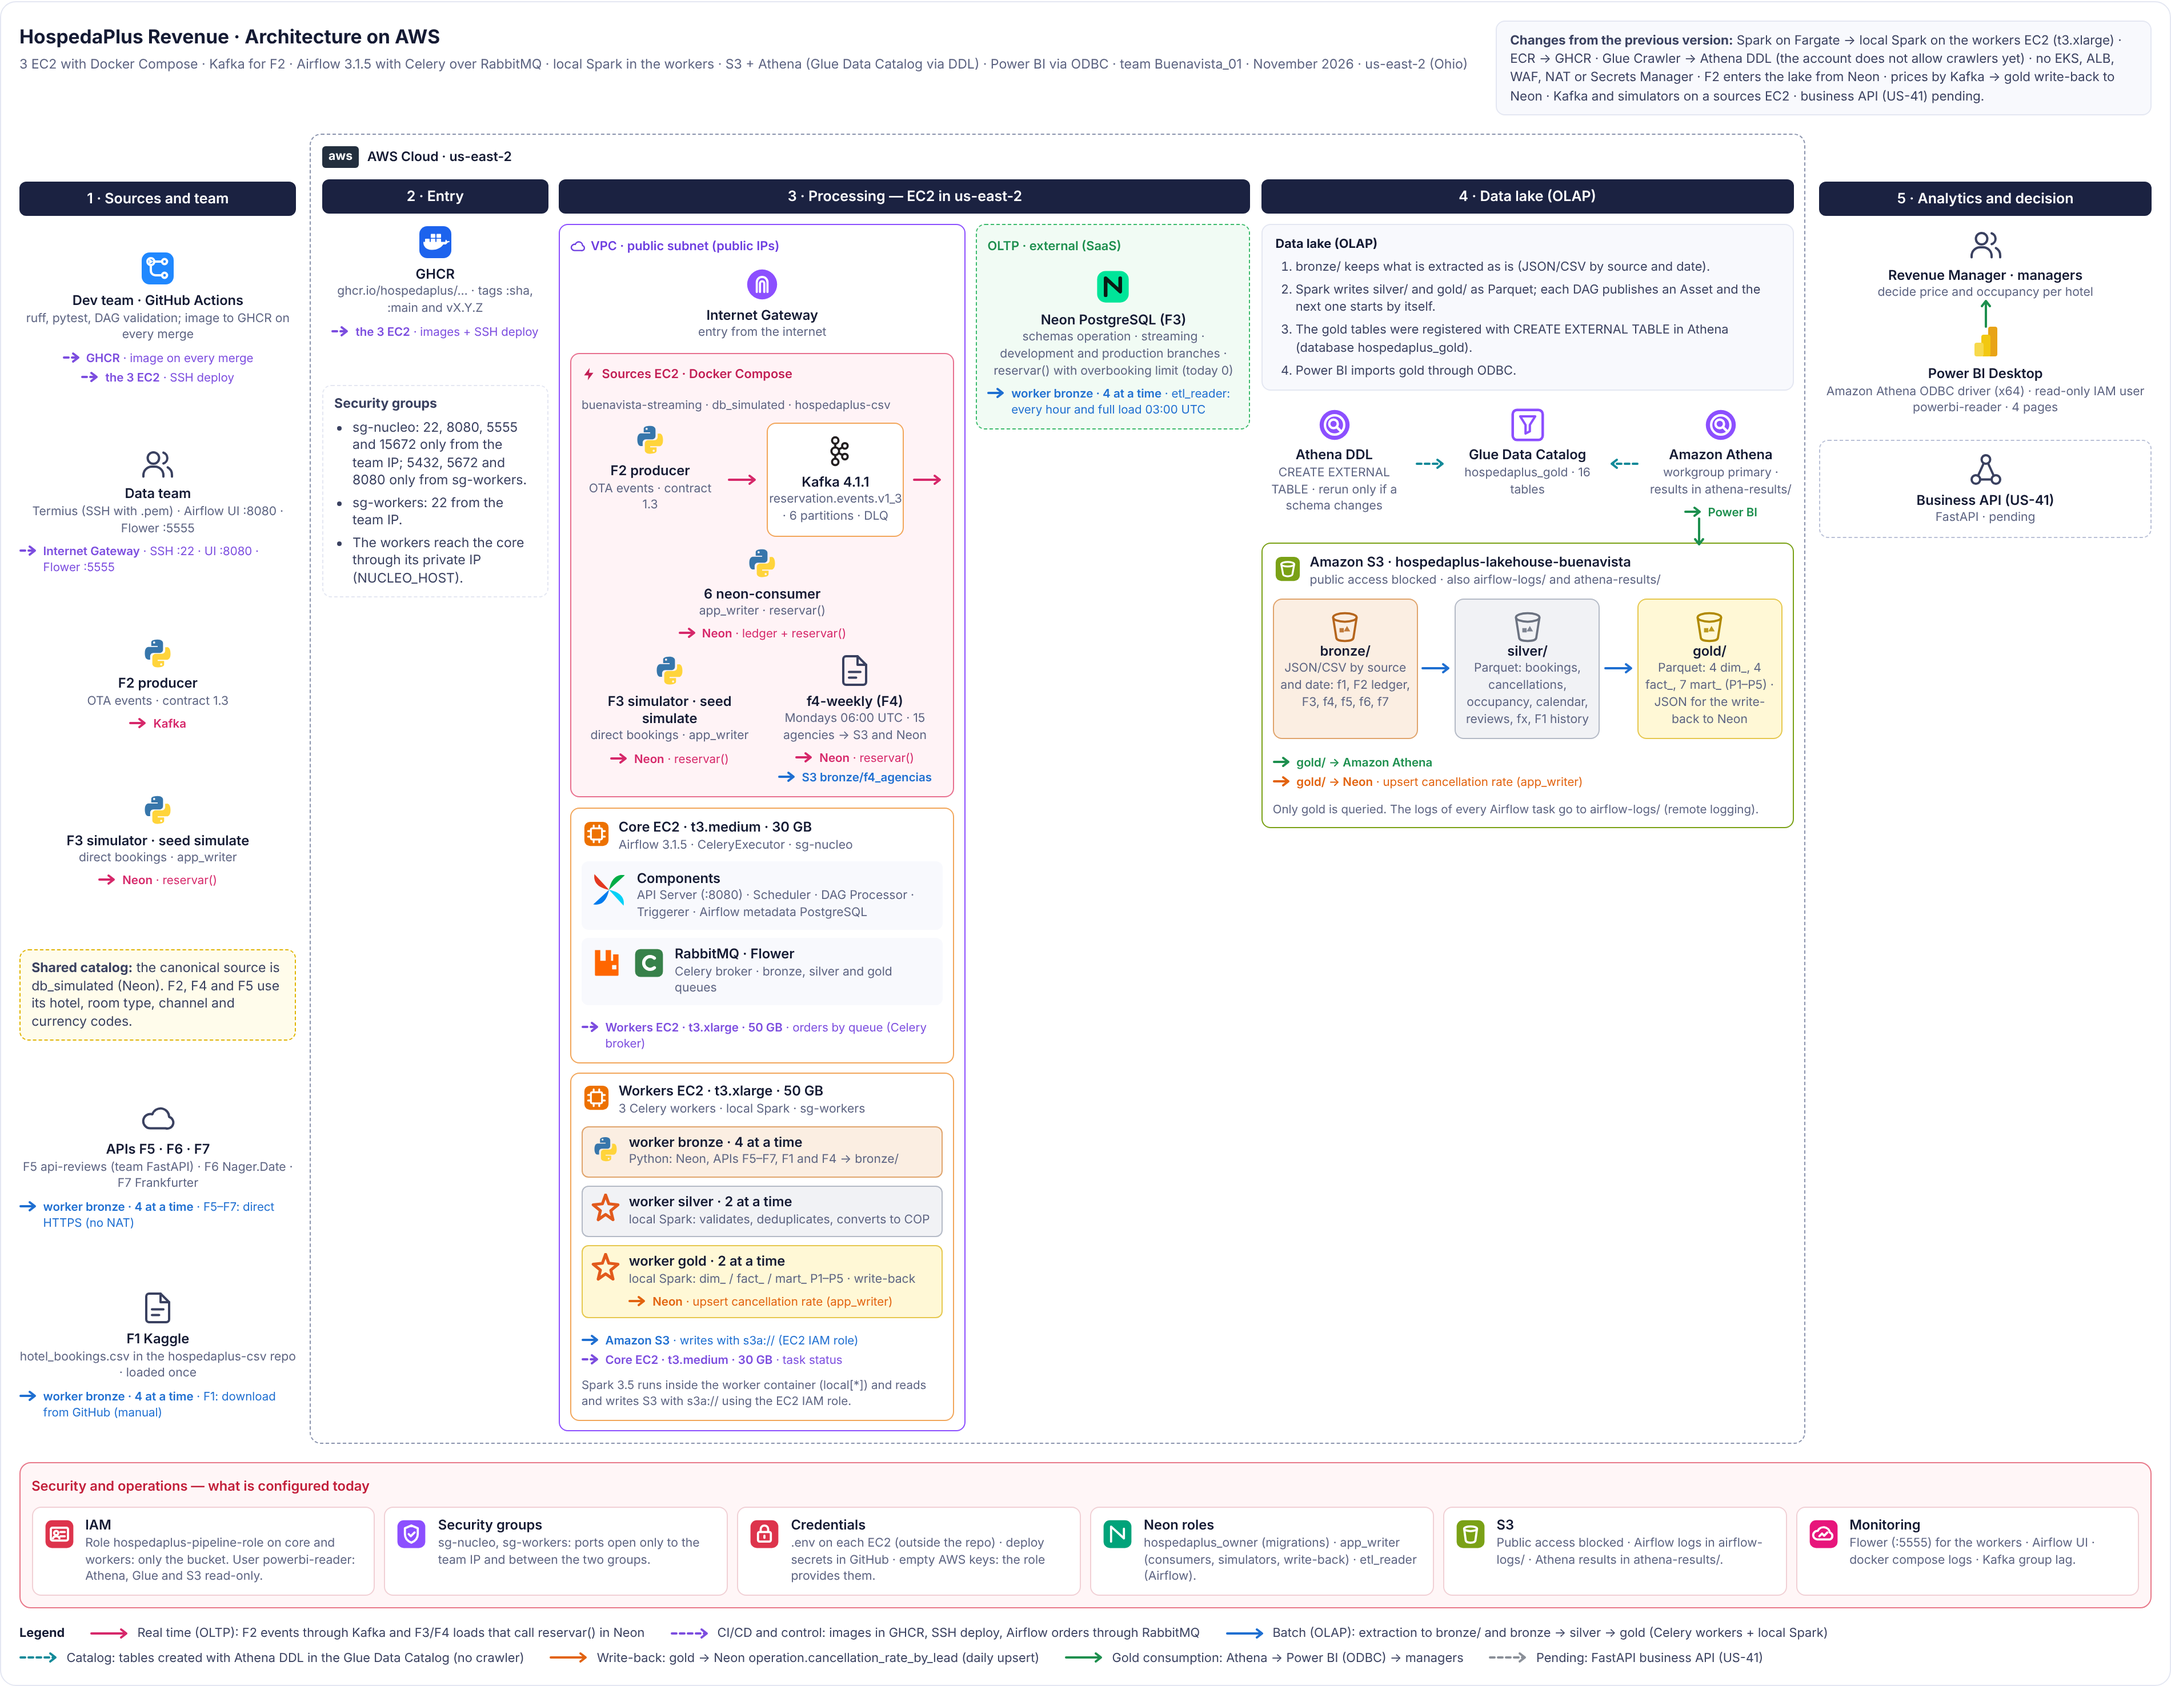
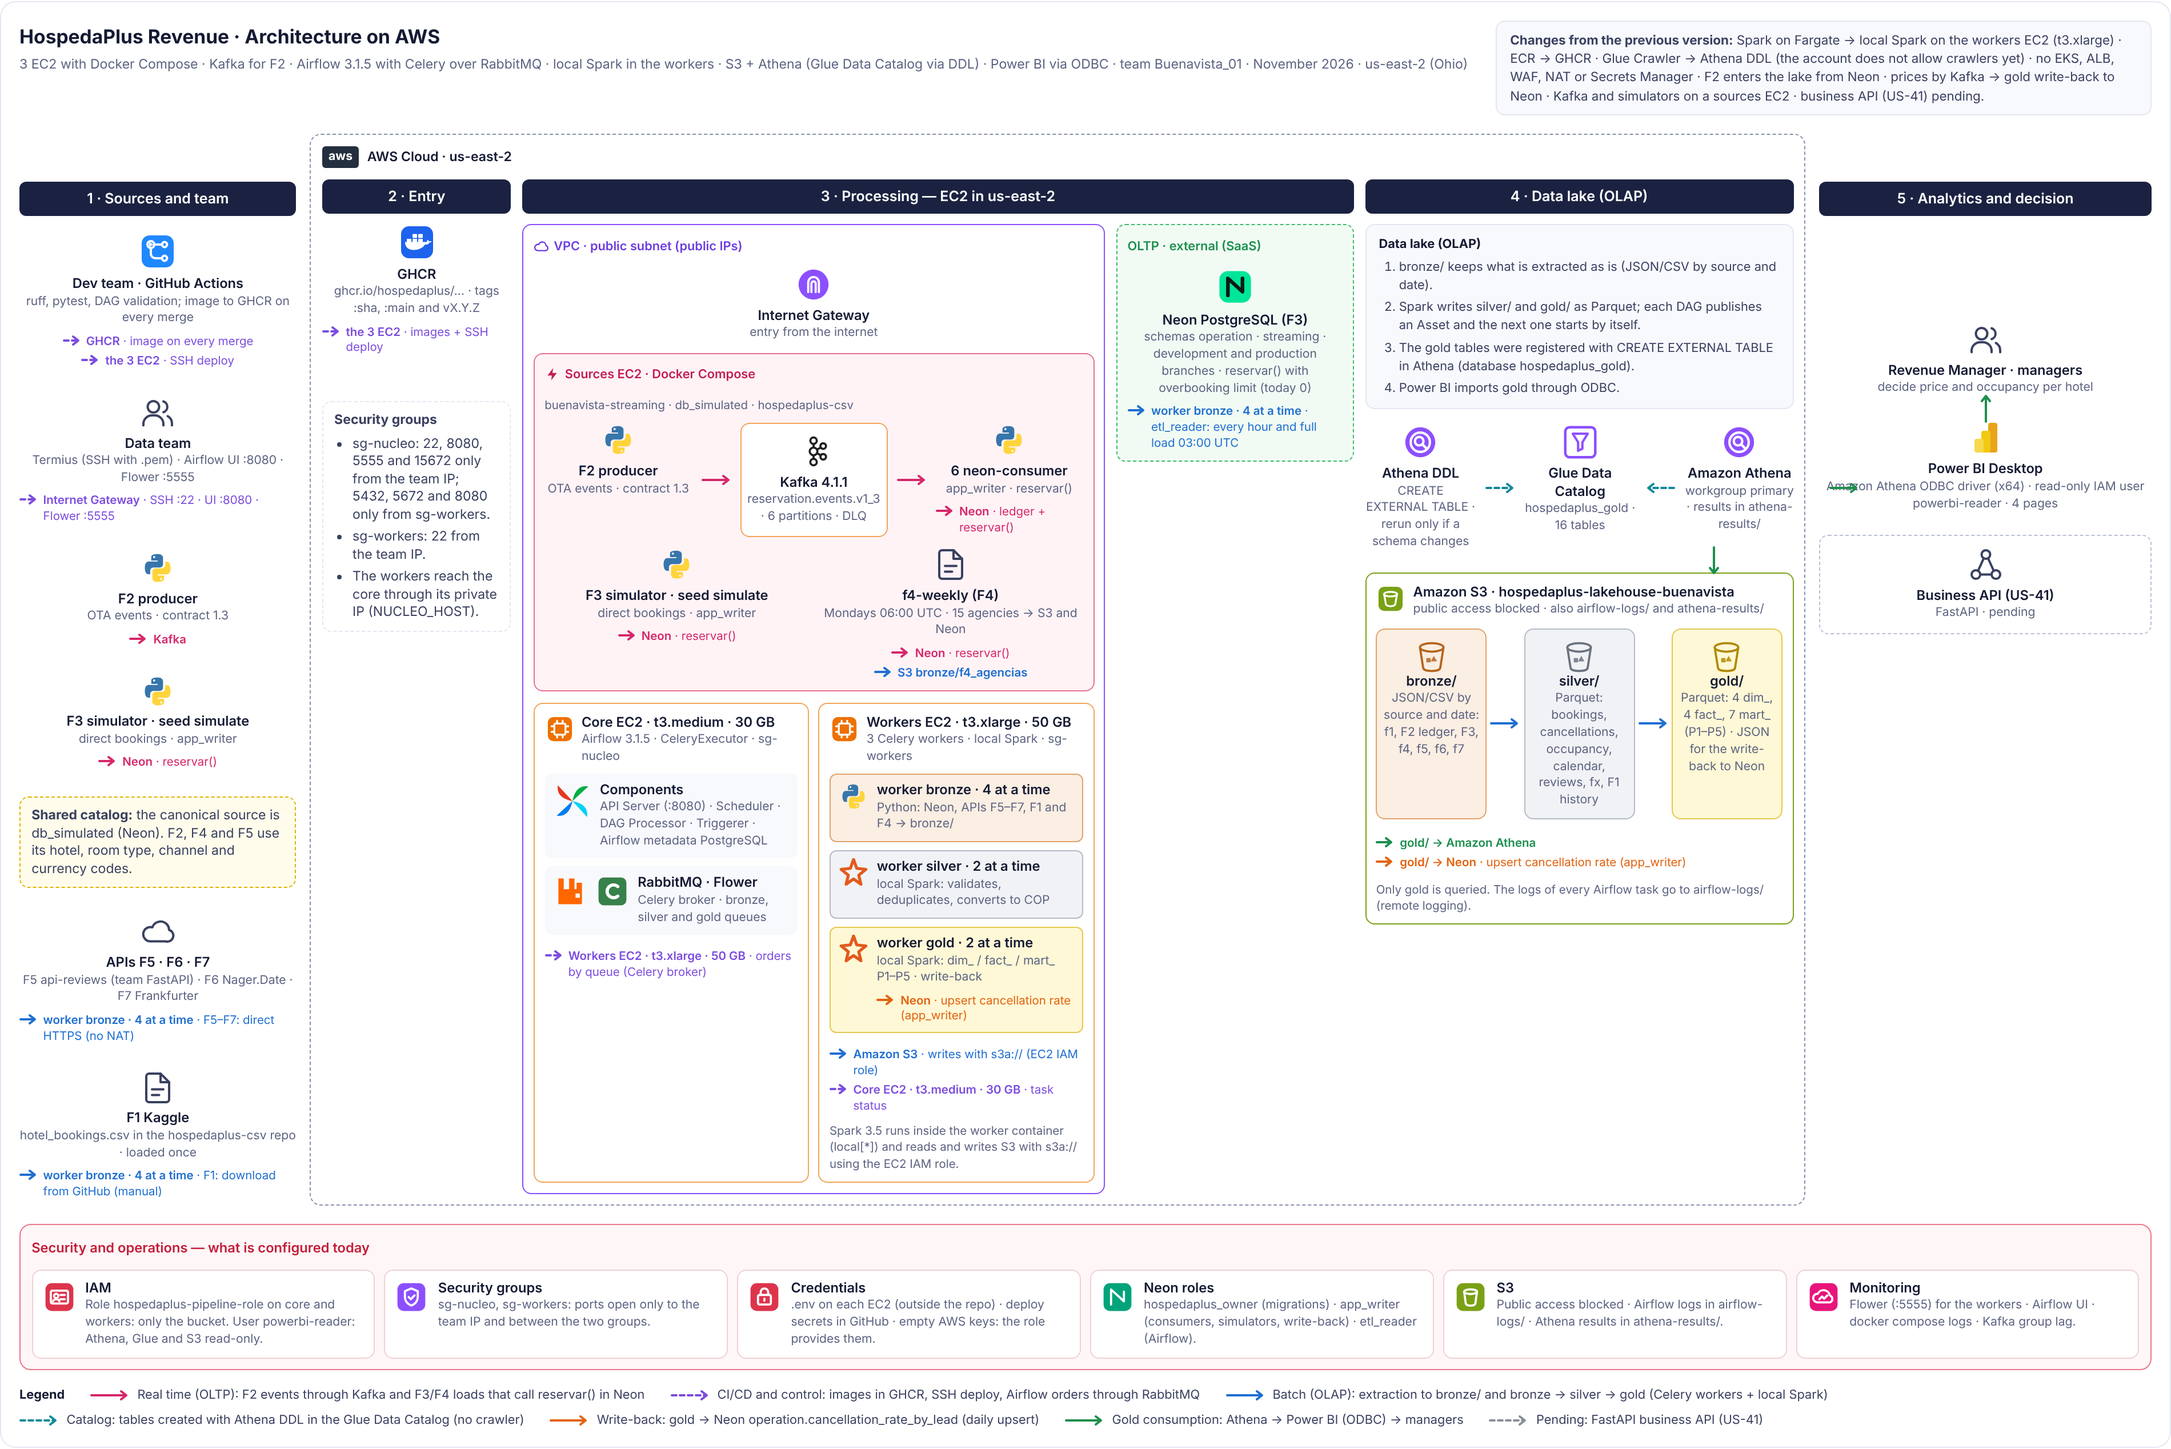
fix: EC2 núcleo y workers lado a lado y flecha de Athena a Power BI entre las columnas 4 y 5

diff --git a/src/components/ArchitectureV2/styles.module.css b/src/components/ArchitectureV2/styles.module.css
@@ -937,3 +937,46 @@
   justify-content: flex-start;
   gap: 0.9rem;
 }
+
+/* Core and workers EC2 side by side; Power BI arrow leaves column 4 outward */
+.landscape .batchRow {
+  flex-wrap: nowrap;
+}
+
+.toPowerBi {
+  display: none;
+}
+
+.landscape .catalog {
+  position: relative;
+}
+
+.landscape .athenaEdge {
+  display: none;
+}
+
+.landscape .toPowerBi {
+  display: flex;
+  align-items: center;
+  flex: none;
+  width: 4.4rem;
+  margin-right: -5rem;
+}
+
+/* Column 3 gets more room so both EC2 fit side by side next to Neon */
+.landscape .cloud {
+  grid-template-columns: 0.75fr 3.3fr 1.7fr;
+}
+
+.landscape .procGrid {
+  grid-template-columns: minmax(0, 1fr) 13rem;
+}
+
+.landscape .toPowerBi > * {
+  flex: 1;
+}
+
+/* Power BI sits at the height of the arrow coming out of Athena */
+.landscape .analytics .stack {
+  margin-top: 5.2rem;
+}

diff --git a/src/components/ArchitectureV2/index.tsx b/src/components/ArchitectureV2/index.tsx
@@ -316,8 +316,12 @@ function DataLake({s}: {s: Strings}): ReactNode {
           logo={<AthenaLogo size={30} />}
           title="Amazon Athena"
           caption={s.athenaCaption}
-          edges={<Edge kind="gold" to="Power BI" />}
+          edges={<span className={styles.athenaEdge}><Edge kind="gold" to="Power BI" /></span>}
         />
+        {/* Landscape: the arrow leaves column 4 towards Power BI in column 5 */}
+        <div className={styles.toPowerBi}>
+          <Link kind="gold" />
+        </div>
       </div>
       {/* Athena reads gold/: the arrow goes down from Athena to the gold layer */}
       <div className={styles.athenaToGold}>
